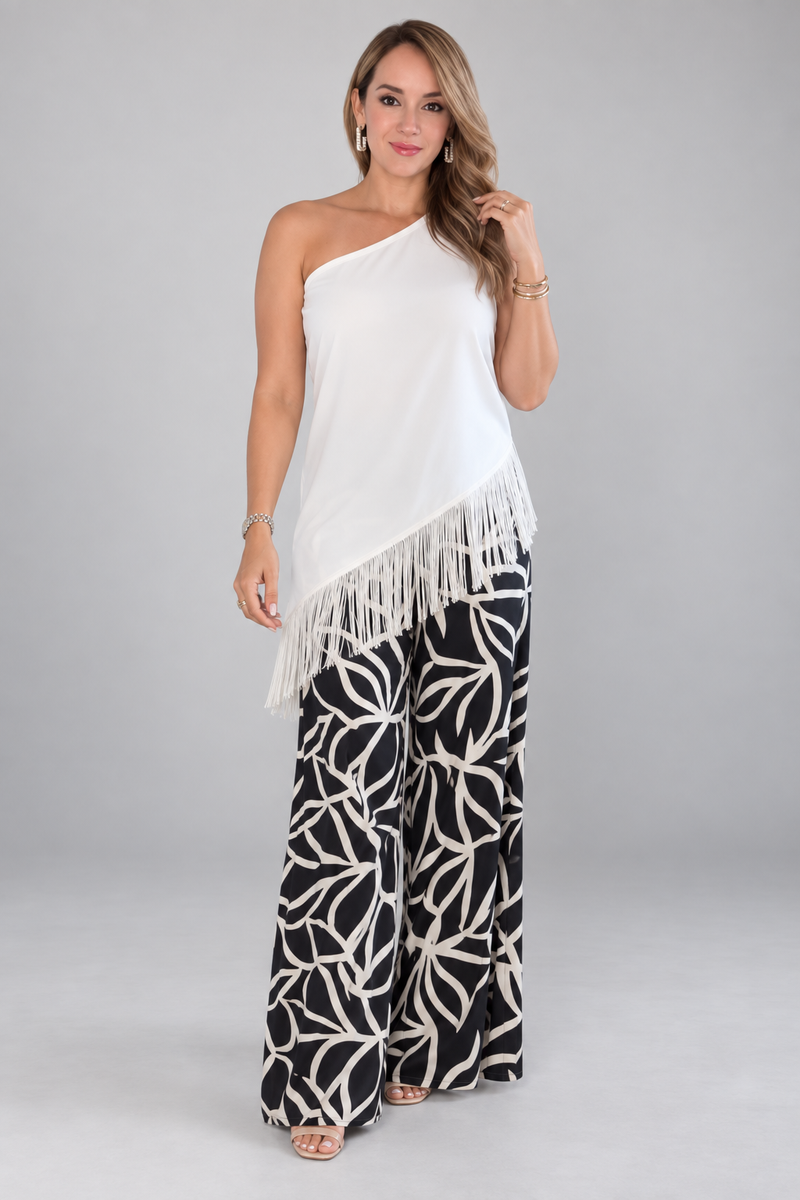
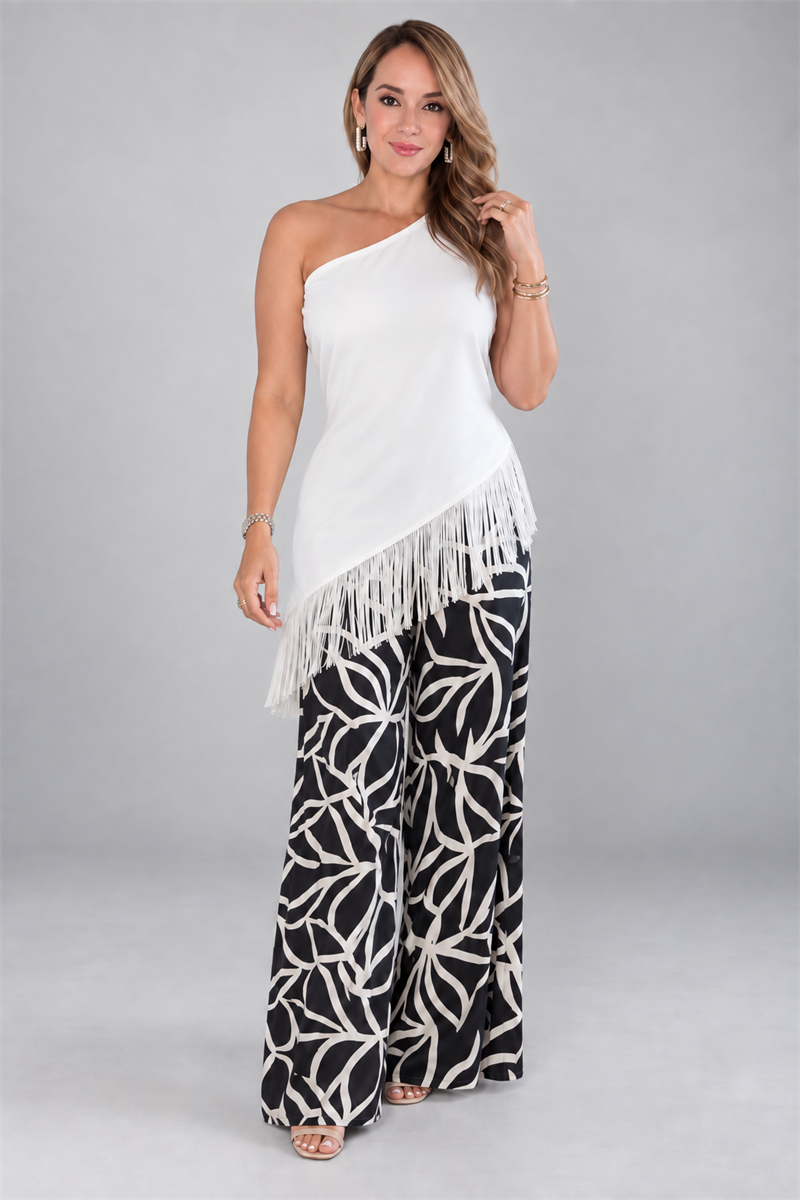
Actualiza colores de Antonieta y fotos de Stella

diff --git a/index.html b/index.html
@@ -1441,14 +1441,18 @@
       },
       {
         id: 16,
-        nombre: "Antonieta dress – Asimétrico",
+        nombre: "Antonieta dress",
         categoria: "vestidos",
         precio: 96.00,
-        imagen: "Imagenes/Antonieta dress verde.png",
-        esNewArrival: false,
-        descripcion: "Vestido precioso de dos piezas con corte asimétrico de un hombro, manga larga y falda forrada de corte asimétrico con dos vuelos que le dan cuerpo y movimiento.\n\nIdeal para matrimonios de día o tarde-noche, fiestas y eventos.\n\nDisponible en verde agua y rosado.",
+        imagen: "Imagenes/Antonieta dress negro crema.png",
+        esNewArrival: true,
+        ordenNew: 12,
+        etiquetaNew: "New Colors",
+        descripcion: "Vestido precioso de dos piezas con corte asimétrico de un hombro, manga larga y falda forrada de corte asimétrico con dos vuelos que le dan cuerpo y movimiento.\n\nIdeal para matrimonios de día o tarde-noche, fiestas y eventos.",
         reel: "https://www.instagram.com/reel/DQptmQlDoqY",
         colores: [
+          { nombre: "Negro y crema", hex: "#202020", imagenes: ["Imagenes/Antonieta dress negro crema.png"] },
+          { nombre: "Vino y crema", hex: "#822B35", imagenes: ["Imagenes/Antonieta dress vino crema.png"] },
           { nombre: "Verde agua", hex: "#9DB8A3", imagenes: ["Imagenes/Antonieta dress verde.png"] },
           { nombre: "Rosado", hex: "#C98D9A", imagenes: ["Imagenes/Antonieta dress rosado.png"] }
         ]
@@ -1709,7 +1713,7 @@
 
       return `
         <div class="product-card" onclick="openModal(${p.id})">
-          ${p.esNewArrival ? '<span class="product-badge">New</span>' : ''}
+          ${p.esNewArrival ? `<span class="product-badge">${p.etiquetaNew || 'New'}</span>` : ''}
           <div class="product-img-wrap">
             <img src="${p.imagen}" alt="${p.nombre}" loading="lazy">
           </div>
